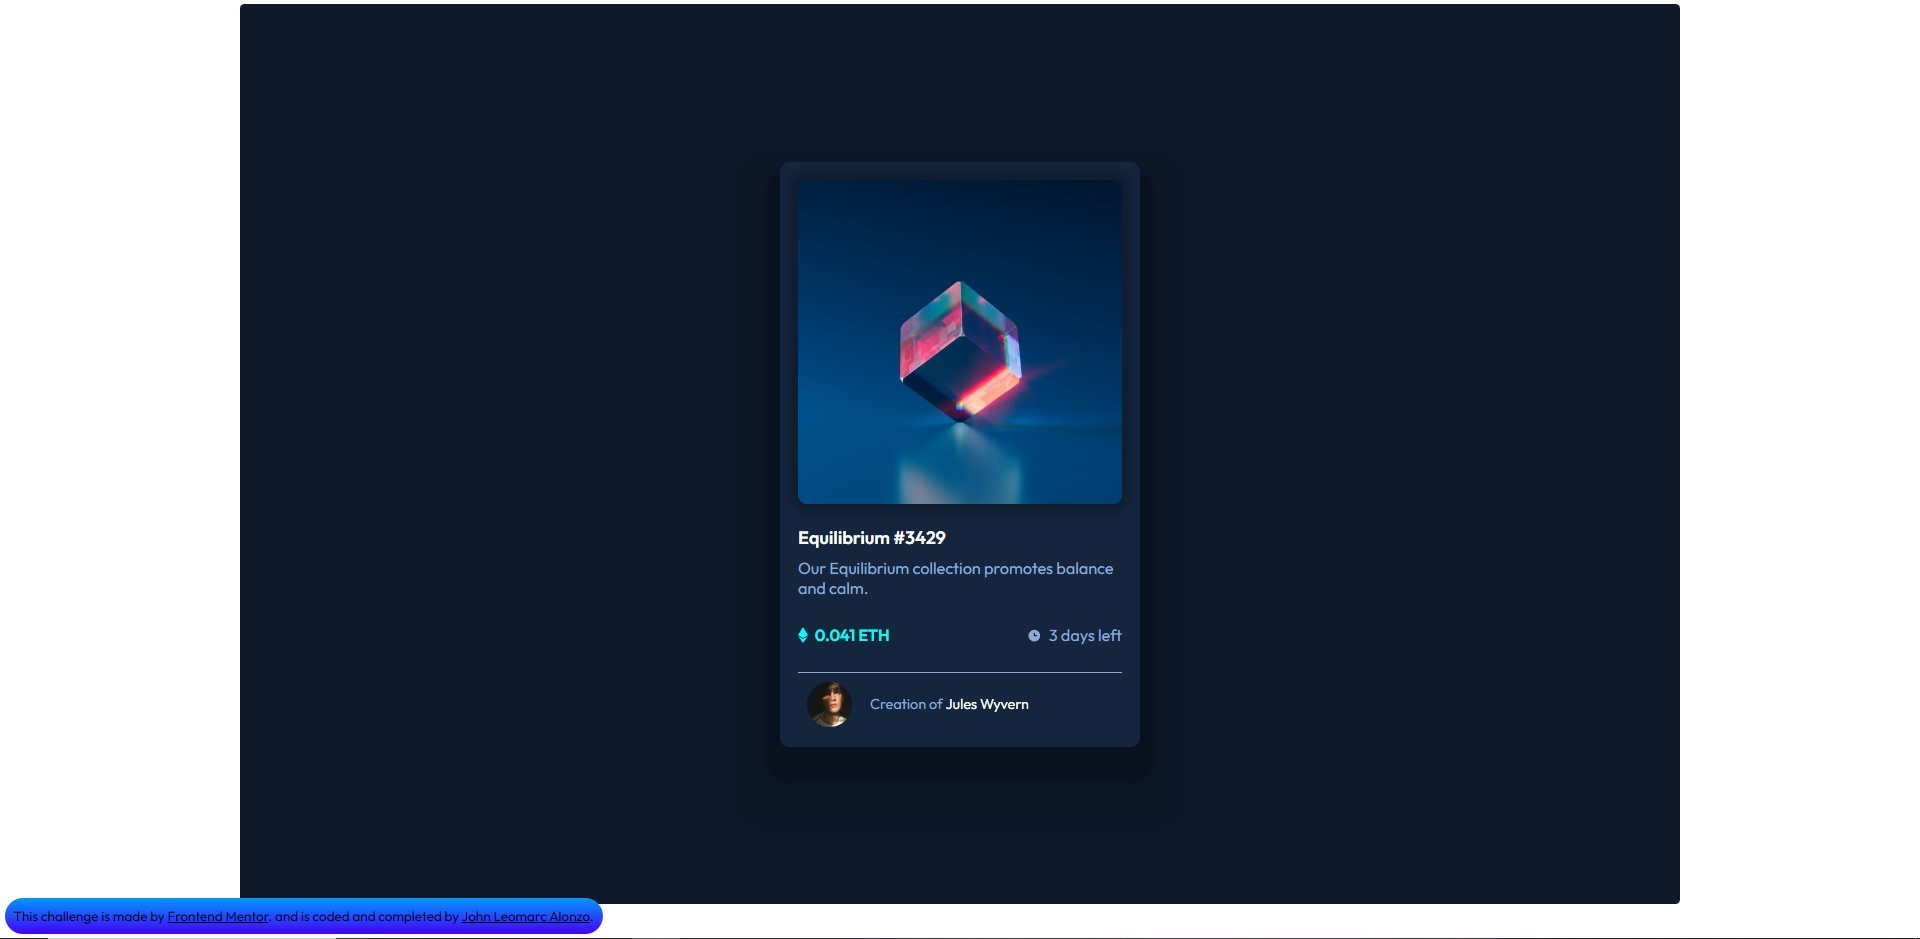
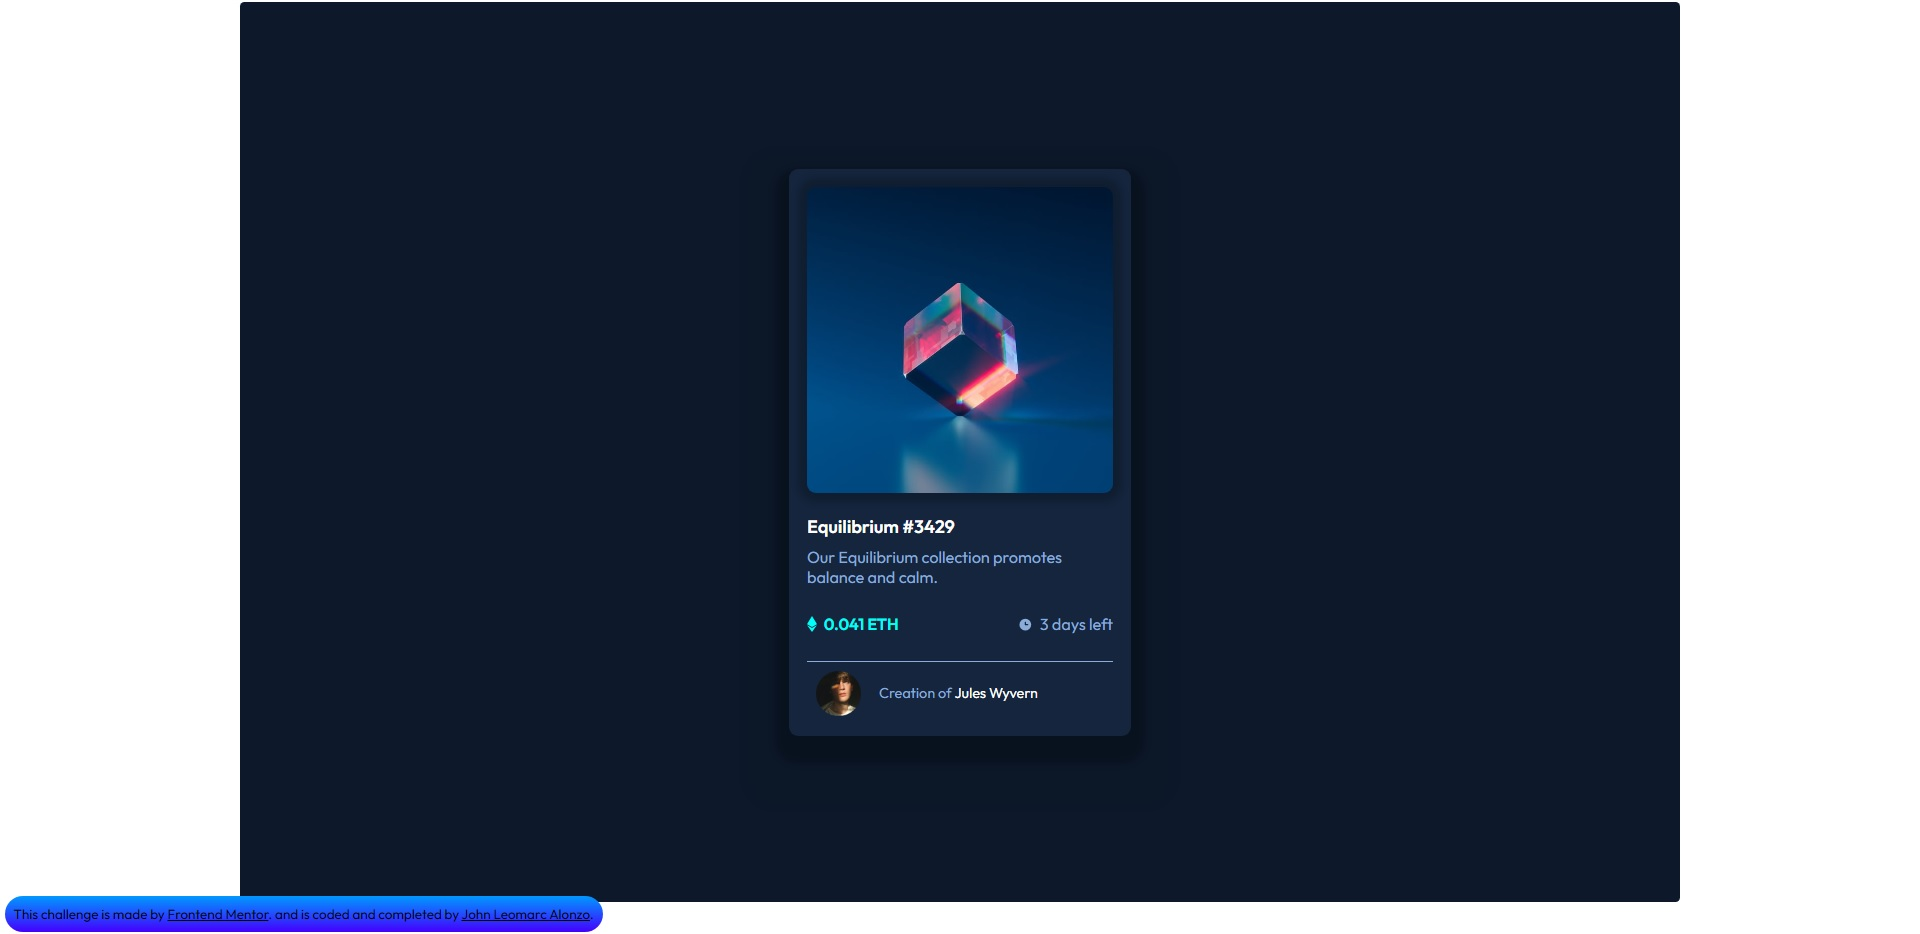
Add files via upload

Changed region(s): [[0.0, 0.9315, 1.0, 1.0], [0.4062, 0.1863, 0.5938, 0.8073], [0.4688, 0.3105, 0.5312, 0.4657]]

diff --git a/styles.css b/styles.css
@@ -36,23 +36,46 @@ body{
 .card-container{
   background-color: hsl(216, 50%, 16%);
   border-radius: 10px;
-  box-shadow: 0px 40px 8px 50px rgba(0,0,0, .05), 0 25px 8px 15px rgba(0,0,0,.25);
+  box-shadow: 0px 30px 8px 50px rgba(0,0,0, .05), 0 15px 8px 15px rgba(0,0,0,.25);
   display: flex;
   flex-direction: column;
   flex-wrap: nowrap;
-  height: 650px;
-  width: 400px;
+  height: 630px;
+  width: 380px;
 }
 
 .picture-row{
   padding: 20px;
-  
+  position: relative;
 }
 .card-picture{
   width: 100%;
   height: auto;
   border-radius: 10px;
   box-shadow: 0 0 8px 10px rgba(0,0,0,.2);
+}
+.hover:hover{
+  cursor: pointer;
+  background-color: rgba(76, 209, 233, .35);
+
+}
+.hover:hover .hover-img{
+  opacity: 1;
+}
+.hover{
+  width: 340px;
+  height: 340px;
+  position: absolute;
+  display: flex;
+  align-items: center;
+  justify-content: center;
+  background-color: rgba(76, 209, 233, 0);
+}
+.hover-img{
+  opacity: 0;
+}
+.hover-img:hover{
+  cursor: pointer;
 }
 .text-row{
   padding: 0px 20px 0px 20px;
@@ -64,7 +87,10 @@ body{
   font-weight: bold;
 }
 
-
+.card-title:hover{
+  color: hsl(178, 100%, 50%);
+  cursor: pointer;
+}
 
 
 .card-description{

diff --git a/index.html b/index.html
@@ -19,6 +19,9 @@
   <main class="box-container">
       <div class="card-container">
         <div class="picture-row">
+          <div class="hover">
+            <img class="hover-img" src="images/icon-view.svg">
+          </div>
           <img src="images/image-equilibrium.jpg" class="card-picture">
         </div>
         <div class="text-row">
